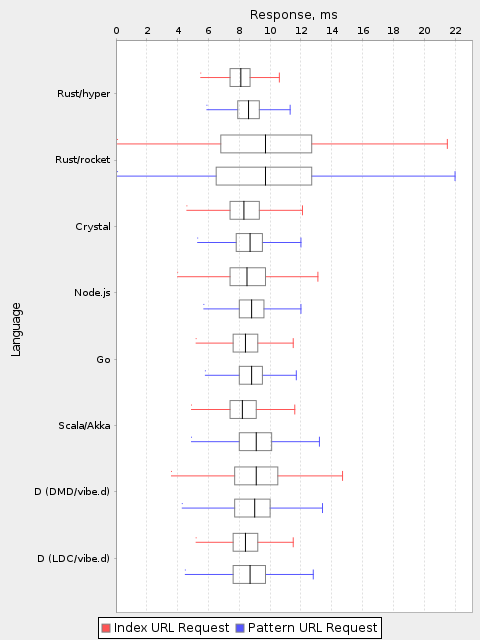
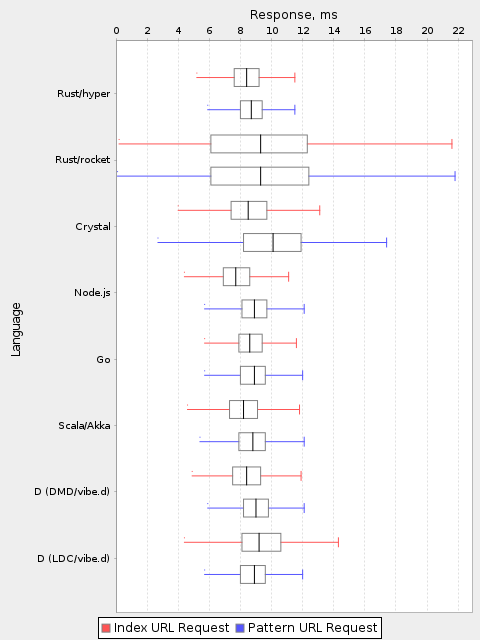
Win and WSL tests reiteration with the new Node.

diff --git a/README.md b/README.md
@@ -21,7 +21,7 @@ OS: Microsoft Windows [Version 10.0.15063]
 
 Hardware: Dell XPS (CPU: 2.6 GHz Intel Core i7, Mem: 16 GB 2133 MHz DDR4)
 
-Software: Go 1.9, Rust 1.22.0-nightly, Scala 2.12.3, Node.js 8.5.0, DMD 2.076.0,
+Software: Go 1.9, Rust 1.22.0-nightly, Scala 2.12.3, Node.js 8.6.0, DMD 2.076.0,
 LDC 1.4.0, Crystal 0.23.1 (under WSL).
 
 ![](results/win.png?raw=true)
@@ -32,7 +32,7 @@ OS: 4.4.0-43-Microsoft GNU/Linux
 
 Hardware: Dell XPS (CPU: 2.6 GHz Intel Core i7, Mem: 16 GB 2133 MHz DDR4)
 
-Software: Go 1.9, Rust 1.22.0-nightly, Scala 2.11.6, Node.js 4.2.6, DMD 2.076.0,
+Software: Go 1.9, Rust 1.22.0-nightly, Scala 2.11.6, Node.js 8.6.0, DMD 2.076.0,
 LDC 1.4.0, Crystal 0.23.1.
 
 ![](results/wsl.png?raw=true)
